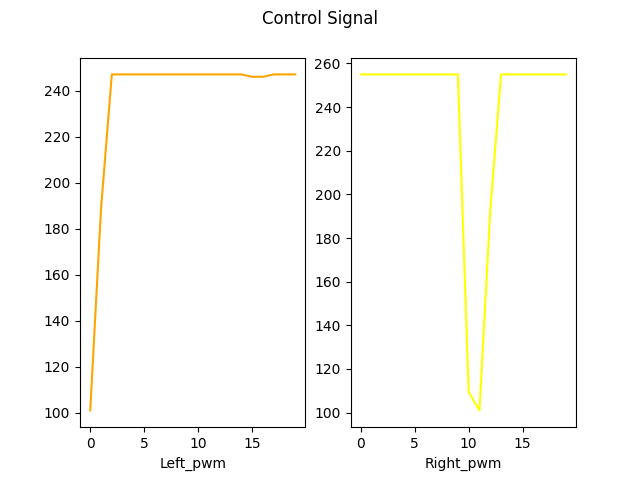
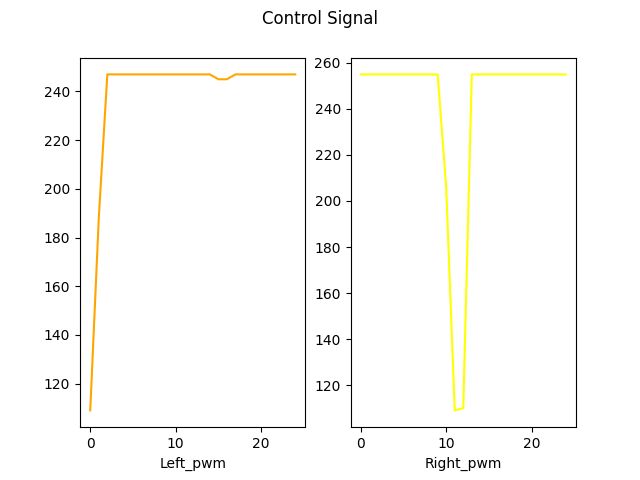
-

diff --git a/Project/Line/plot.py b/Project/Line/plot.py
@@ -8,7 +8,7 @@ import math
 
 def plot():
 
-  n=np.arange(1,26)
+  n=np.arange(1,25)
 
 
 
@@ -30,7 +30,7 @@ def plot():
   y2 = target[0:71]['y']
   theta2 = target[0:71]['theta']
 
-  MSE = np.square(np.subtract(x1,x2)).mean()+np.square(np.subtract(y1,y2)).mean() 
+  MSE = np.square(np.subtract(theta1,theta2)).mean() 
   RMSE = math.sqrt(MSE)
   print("Root Mean Square Error:\n")
   print(RMSE)
